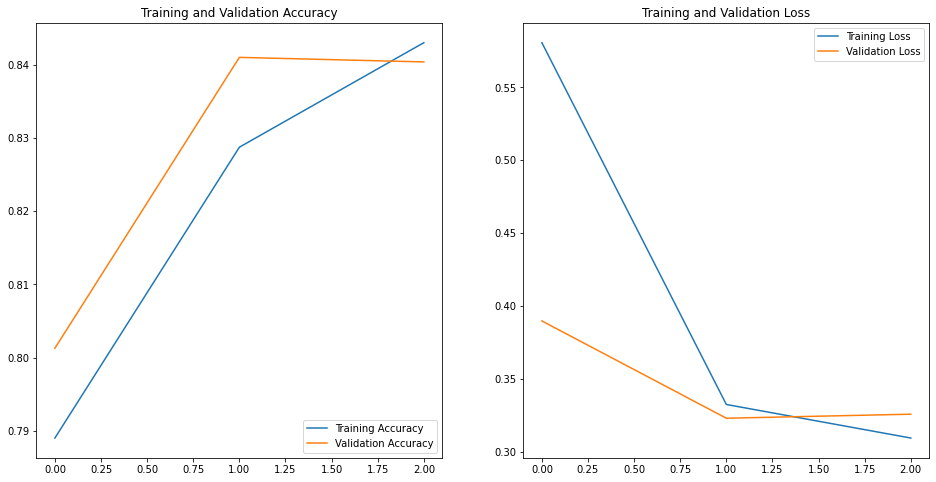
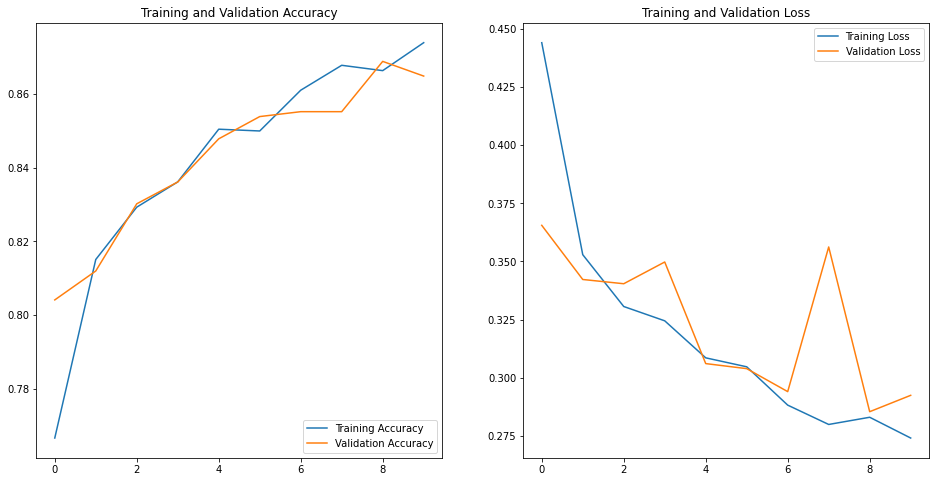
update

diff --git a/Livrable 1/LIVRABLE_VERBOSE.html b/Livrable 1/LIVRABLE_VERBOSE.html
@@ -14751,6 +14751,7 @@ Voici le code de notre premier modèle :</p>
 </li>
 </ul>
 <p><img src="image/model_single.png" alt="modelsinglepng"></p>
+
 <h4 id="Mod%C3%A8le-2-(Multiple-Layer-CNN)">Mod&#232;le 2 (Multiple Layer CNN)<a class="anchor-link" href="#Mod%C3%A8le-2-(Multiple-Layer-CNN)">&#182;</a></h4><p>Voici le code de notre second modèle :</p>
 <div class="highlight"><pre><span></span><span class="n">num_classes</span> <span class="o">=</span> <span class="nb">len</span><span class="p">(</span><span class="n">class_names</span><span class="p">)</span>
 <span class="n">data_augmentation</span> <span class="o">=</span> <span class="n">keras</span><span class="o">.</span><span class="n">Sequential</span><span class="p">(</span>
@@ -14834,6 +14835,7 @@ Voici le code de notre premier modèle :</p>
 <span class="n">Non</span><span class="o">-</span><span class="n">trainable</span> <span class="nl">params:</span> <span class="mh">0</span>
 <span class="n">_________________________________________________________________</span>
 </pre></div>
+
 <p>Dans un second temps notre équipe de projet à donc réalisé un second modèle. Le premier modèle n'avait pas les performances escomptées.</p>
 <p>Nous sommes donc partie sur la base du premier modèle, en lui rajoutant 2 couche de convolution supplémentaire.</p>
 <p>Les couches <em>Dense</em> apprennent en <strong>observant</strong> une image, une donnée, <strong>dans sa totalité</strong></p>
@@ -14868,10 +14870,56 @@ A la fin de l'entrainement, nous sauvegardons le modèle final</p>
 <span class="n">model_single_layer</span><span class="o">.</span><span class="n">save_weights</span><span class="p">(</span><span class="n">save_path</span><span class="p">)</span>
 </pre></div>
 <h2 id="Analyse-des-performances-et-des-param%C3%A8tres-de-nos-mod%C3%A8les">Analyse des performances et des param&#232;tres de nos mod&#232;les<a class="anchor-link" href="#Analyse-des-performances-et-des-param%C3%A8tres-de-nos-mod%C3%A8les">&#182;</a></h2><h3 id="Mod%C3%A8le-1-(Single-layers-CNN)">Mod&#232;le 1 (Single layers CNN)<a class="anchor-link" href="#Mod%C3%A8le-1-(Single-layers-CNN)">&#182;</a></h3><h4 id="Loss-et-accuracy">Loss et accuracy<a class="anchor-link" href="#Loss-et-accuracy">&#182;</a></h4><p><img src="image/Single.png" alt="Graph Single"></p>
+<p>
+  Epoch 1/10
+647/647 [==============================] - ETA: 0s - loss: 0.4439 - accuracy: 0.7667<br>
+2022-01-11 14:58:27.212545: W tensorflow/core/lib/png/png_io.cc:88] PNG warning: iCCP: known incorrect sRGB profile<br>
+Corrupt JPEG data: 419 extraneous bytes before marker 0xd9<br>
+
+Epoch 00001: val_accuracy improved from -inf to 0.80413, saving model to training/cp_single_layer_01-0.80.ckpt<br>
+647/647 [==============================] - 103s 55ms/step - loss: 0.4439 - accuracy: 0.7667 - val_loss: 0.3655 - val_accuracy: 0.8041<br>
+
+Epoch 2/10<br>
+644/647 [============================>.] - ETA: 0s - loss: 0.3529 - accuracy: 0.8151<br>
+Epoch 00002: val_accuracy improved from 0.80413 to 0.81198, saving model to training/cp_single_layer_02-0.81.ckpt<br>
+647/647 [==============================] - 10s 16ms/step - loss: 0.3529 - accuracy: 0.8151 - val_loss: 0.3422 - val_accuracy: 0.8120<br>
+Epoch 3/10
+645/647 [============================>.] - ETA: 0s - loss: 0.3307 - accuracy: 0.8293<br>
+Epoch 00003: val_accuracy improved from 0.81198 to 0.83021, saving model to training/cp_single_layer_03-0.83.ckpt<br>
+647/647 [==============================] - 10s 16ms/step - loss: 0.3306 - accuracy: 0.8293 - val_loss: 0.3404 - val_accuracy: 0.8302<br>
+Epoch 4/10<br>
+645/647 [============================>.] - ETA: 0s - loss: 0.3246 - accuracy: 0.8361<br>
+Epoch 00004: val_accuracy improved from 0.83021 to 0.83613, saving model to training/cp_single_layer_04-0.84.ckpt<br>
+647/647 [==============================] - 10s 16ms/step - loss: 0.3245 - accuracy: 0.8362 - val_loss: 0.3498 - val_accuracy: 0.8361<br>
+Epoch 5/10<br>
+645/647 [============================>.] - ETA: 0s - loss: 0.3085 - accuracy: 0.8506<br>
+Epoch 00005: val_accuracy improved from 0.83613 to 0.84784, saving model to training/cp_single_layer_05-0.85.ckpt<br>
+647/647 [==============================] - 10s 16ms/step - loss: 0.3086 - accuracy: 0.8505 - val_loss: 0.3061 - val_accuracy: 0.8478<br>
+Epoch 6/10<br>
+645/647 [============================>.] - ETA: 0s - loss: 0.3048 - accuracy: 0.8499<br>
+Epoch 00006: val_accuracy improved from 0.84784 to 0.85388, saving model to training/cp_single_layer_06-0.85.ckpt<br>
+647/647 [==============================] - 10s 16ms/step - loss: 0.3048 - accuracy: 0.8500 - val_loss: 0.3040 - val_accuracy: 0.8539<br>
+Epoch 7/10<br>
+645/647 [============================>.] - ETA: 0s - loss: 0.2882 - accuracy: 0.8611<br>
+Epoch 00007: val_accuracy improved from 0.85388 to 0.85521, saving model to training/cp_single_layer_07-0.86.ckpt<br>
+647/647 [==============================] - 10s 16ms/step - loss: 0.2883 - accuracy: 0.8610 - val_loss: 0.2941 - val_accuracy: 0.8552<br>
+Epoch 8/10<br>
+644/647 [============================>.] - ETA: 0s - loss: 0.2798 - accuracy: 0.8678<br>
+Epoch 00008: val_accuracy did not improve from 0.85521<br>
+647/647 [==============================] - 10s 16ms/step - loss: 0.2800 - accuracy: 0.8678 - val_loss: 0.3562 - val_accuracy: 0.8552<br>
+Epoch 9/10<br>
+645/647 [============================>.] - ETA: 0s - loss: 0.2831 - accuracy: 0.8663<br>
+Epoch 00009: val_accuracy improved from 0.85521 to 0.86886, saving model to training/cp_single_layer_09-0.87.ckpt<br>
+647/647 [==============================] - 10s 16ms/step - loss: 0.2831 - accuracy: 0.8663 - val_loss: 0.2855 - val_accuracy: 0.8689<br>
+Epoch 10/10<br>
+645/647 [============================>.] - ETA: 0s - loss: 0.2743 - accuracy: 0.8738<br>
+Epoch 00010: val_accuracy did not improve from 0.86886<br>
+647/647 [==============================] - 10s 16ms/step - loss: 0.2742 - accuracy: 0.8739 - val_loss: 0.2925 - val_accuracy: 0.8649<br>
+</p>
 <p>Voici nos graphiques d'accuracy et de loss au cours des épochs. Ce modèle atteint donc :</p>
 <ul>
-<li>En training : - loss: 0.3095 - accuracy: 0.8430 </li>
-<li>En validation : - val_loss: 0.3259 - val_accuracy: 0.8404</li>
+<li>En training : - loss: 0.2742 - accuracy: 0.8739</li>
+<li>En validation : - val_loss: 0.2925 - val_accuracy: 0.8649</li>
 </ul>
 <h4 id="Les-param%C3%A8tres">Les param&#232;tres<a class="anchor-link" href="#Les-param%C3%A8tres">&#182;</a></h4><p>Le batch size = 32</p>
 <p>Ce batch size à été selectionné de façon à optimiser les performances de l'apprentissage.</p>
@@ -14902,10 +14950,52 @@ Pour ce modèle Nous avons donc pour les classes :</p>
 </pre></div>
 <h4 id="Exemple-d'erreurs-de-notre-mod%C3%A8le">Exemple d'erreurs de notre mod&#232;le<a class="anchor-link" href="#Exemple-d'erreurs-de-notre-mod%C3%A8le">&#182;</a></h4><p><img src="image/errors_example.png" alt="errorsexamplepng"></p>
 <h3 id="Mod%C3%A8le-2-(Multiple-Layer-CNN)">Mod&#232;le 2 (Multiple Layer CNN)<a class="anchor-link" href="#Mod%C3%A8le-2-(Multiple-Layer-CNN)">&#182;</a></h3><h4 id="Loss-et-Accuracy">Loss et Accuracy<a class="anchor-link" href="#Loss-et-Accuracy">&#182;</a></h4><p><img src="image/multi.png" alt="Graph Multi"></p>
+<p>
+  Epoch 1/10<br>
+646/647 [============================>.] - ETA: 0s - loss: 0.3737 - accuracy: 0.7987<br>
+Epoch 00001: val_accuracy improved from -inf to 0.83251, saving model to training/cp_multiple_layers_01-0.83.ckpt<br>
+647/647 [==============================] - 16s 23ms/step - loss: 0.3735 - accuracy: 0.7988 - val_loss: 0.3225 - val_accuracy: 0.8325<br>
+Epoch 2/10<br>
+646/647 [============================>.] - ETA: 0s - loss: 0.3121 - accuracy: 0.8472<br>
+Epoch 00002: val_accuracy improved from 0.83251 to 0.86741, saving model to training/cp_multiple_layers_02-0.87.ckpt<br>
+647/647 [==============================] - 14s 22ms/step - loss: 0.3120 - accuracy: 0.8472 - val_loss: 0.2790 - val_accuracy: 0.8674<br>
+Epoch 3/10<br>
+646/647 [============================>.] - ETA: 0s - loss: 0.2811 - accuracy: 0.8692<br>
+Epoch 00003: val_accuracy improved from 0.86741 to 0.87175, saving model to training/cp_multiple_layers_03-0.87.ckpt<br>
+647/647 [==============================] - 14s 22ms/step - loss: 0.2811 - accuracy: 0.8692 - val_loss: 0.2852 - val_accuracy: 0.8718<br>
+Epoch 4/10<br>
+646/647 [============================>.] - ETA: 0s - loss: 0.2694 - accuracy: 0.8774<br>
+Epoch 00004: val_accuracy improved from 0.87175 to 0.87502, saving model to training/cp_multiple_layers_04-0.88.ckpt<br>
+647/647 [==============================] - 15s 22ms/step - loss: 0.2692 - accuracy: 0.8775 - val_loss: 0.2793 - val_accuracy: 0.8750<br>
+Epoch 5/10<br>
+646/647 [============================>.] - ETA: 0s - loss: 0.2494 - accuracy: 0.8855<br>
+Epoch 00005: val_accuracy improved from 0.87502 to 0.89446, saving model to training/cp_multiple_layers_05-0.89.ckpt<br>
+647/647 [==============================] - 14s 22ms/step - loss: 0.2495 - accuracy: 0.8854 - val_loss: 0.2436 - val_accuracy: 0.8945<br>
+Epoch 6/10<br>
+646/647 [============================>.] - ETA: 0s - loss: 0.2387 - accuracy: 0.8945<br>
+Epoch 00006: val_accuracy improved from 0.89446 to 0.89760, saving model to training/cp_multiple_layers_06-0.90.ckpt<br>
+647/647 [==============================] - 14s 22ms/step - loss: 0.2388 - accuracy: 0.8944 - val_loss: 0.2350 - val_accuracy: 0.8976<br>
+Epoch 7/10<br>
+646/647 [============================>.] - ETA: 0s - loss: 0.2234 - accuracy: 0.9056<br>
+Epoch 00007: val_accuracy did not improve from 0.89760<br>
+647/647 [==============================] - 14s 22ms/step - loss: 0.2231 - accuracy: 0.9057 - val_loss: 0.2561 - val_accuracy: 0.8850<br>
+Epoch 8/10<br>
+646/647 [============================>.] - ETA: 0s - loss: 0.2166 - accuracy: 0.9075<br>
+Epoch 00008: val_accuracy improved from 0.89760 to 0.90653, saving model to training/cp_multiple_layers_08-0.91.ckpt<br>
+647/647 [==============================] - 14s 22ms/step - loss: 0.2165 - accuracy: 0.9075 - val_loss: 0.2271 - val_accuracy: 0.9065<br>
+Epoch 9/10<br>
+646/647 [============================>.] - ETA: 0s - loss: 0.2124 - accuracy: 0.9094<br>
+Epoch 00009: val_accuracy did not improve from 0.90653<br>
+647/647 [==============================] - 14s 22ms/step - loss: 0.2124 - accuracy: 0.9094 - val_loss: 0.2291 - val_accuracy: 0.9056<br>
+Epoch 10/10<br>
+646/647 [============================>.] - ETA: 0s - loss: 0.2028 - accuracy: 0.9134<br>
+Epoch 00010: val_accuracy improved from 0.90653 to 0.91064, saving model to training/cp_multiple_layers_10-0.91.ckpt<br>
+647/647 [==============================] - 14s 22ms/step - loss: 0.2028 - accuracy: 0.9133 - val_loss: 0.2147 - val_accuracy: 0.9106<br>
+</p>
 <p>Voici nos graphique d'accuracy et de loss au cours des epochs. Ce modèle atteint donc :</p>
 <ul>
-<li>En training : - loss: 0.2850 - accuracy: 0.8616 </li>
-<li>En validation : - val_loss: 0.2944 - val_accuracy: 0.8550</li>
+<li>En training : - loss: 0.2028 - accuracy: 0.9133 </li>
+<li>En validation : - val_loss: 0.2147 - val_accuracy: 0.9106</li>
 </ul>
 <p>Nous constatons que ce modèle à de meilleurs performances que le premier modèle dues aux couches de convolution supplémentaire.</p>
 <p><u><strong>Test de l'accuracy :</strong></u></p>
